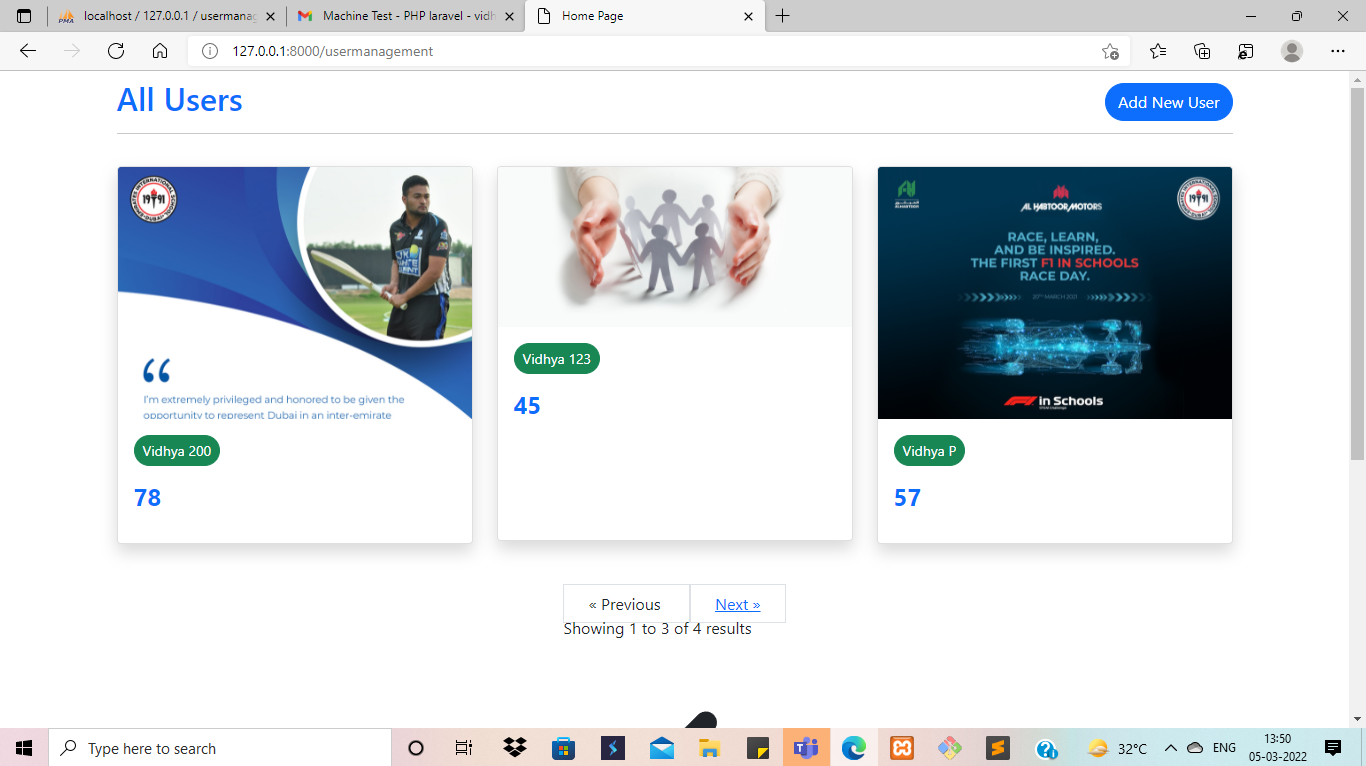
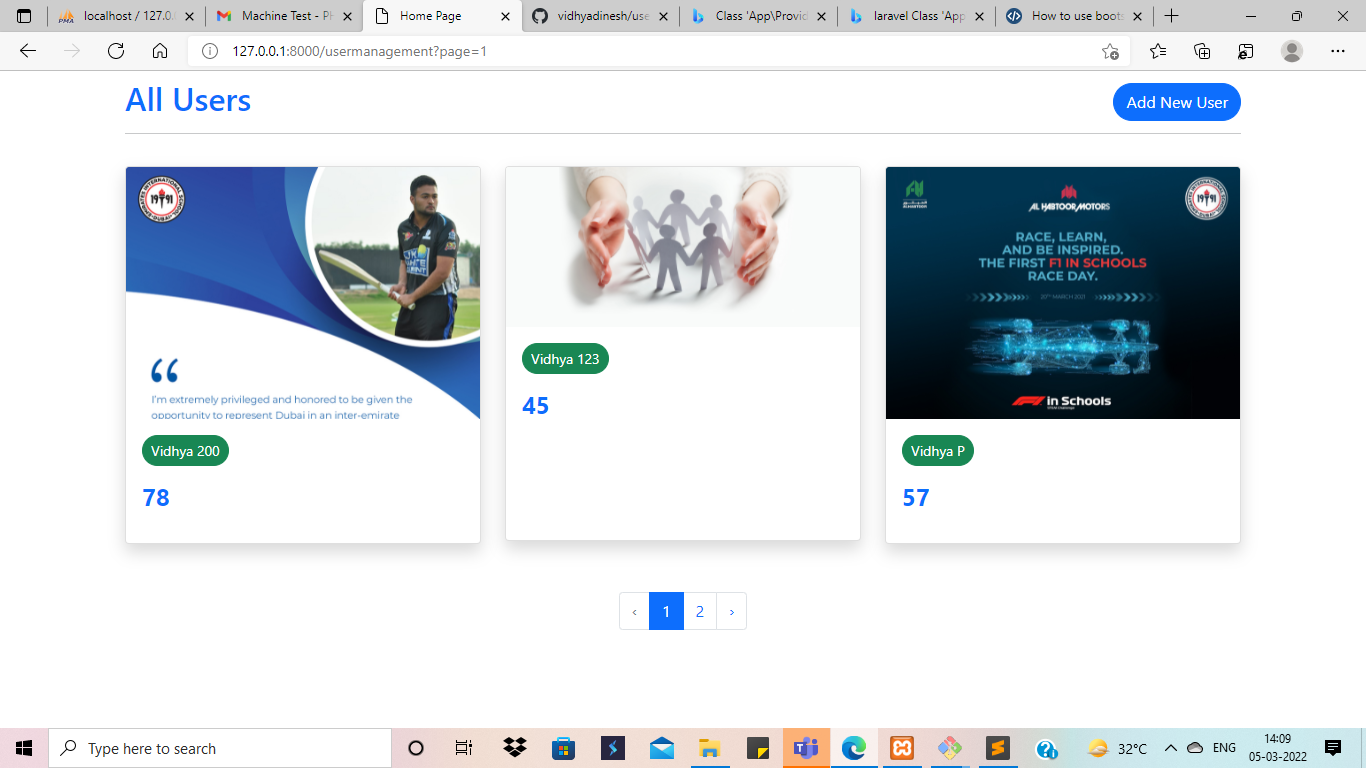
first commit

diff --git a/bootstrap/cache/services.php b/bootstrap/cache/services.php
@@ -1,0 +1,231 @@
+<?php return array (
+  'providers' => 
+  array (
+    0 => 'Illuminate\\Auth\\AuthServiceProvider',
+    1 => 'Illuminate\\Broadcasting\\BroadcastServiceProvider',
+    2 => 'Illuminate\\Bus\\BusServiceProvider',
+    3 => 'Illuminate\\Cache\\CacheServiceProvider',
+    4 => 'Illuminate\\Foundation\\Providers\\ConsoleSupportServiceProvider',
+    5 => 'Illuminate\\Cookie\\CookieServiceProvider',
+    6 => 'Illuminate\\Database\\DatabaseServiceProvider',
+    7 => 'Illuminate\\Encryption\\EncryptionServiceProvider',
+    8 => 'Illuminate\\Filesystem\\FilesystemServiceProvider',
+    9 => 'Illuminate\\Foundation\\Providers\\FoundationServiceProvider',
+    10 => 'Illuminate\\Hashing\\HashServiceProvider',
+    11 => 'Illuminate\\Mail\\MailServiceProvider',
+    12 => 'Illuminate\\Notifications\\NotificationServiceProvider',
+    13 => 'Illuminate\\Pagination\\PaginationServiceProvider',
+    14 => 'Illuminate\\Pipeline\\PipelineServiceProvider',
+    15 => 'Illuminate\\Queue\\QueueServiceProvider',
+    16 => 'Illuminate\\Redis\\RedisServiceProvider',
+    17 => 'Illuminate\\Auth\\Passwords\\PasswordResetServiceProvider',
+    18 => 'Illuminate\\Session\\SessionServiceProvider',
+    19 => 'Illuminate\\Translation\\TranslationServiceProvider',
+    20 => 'Illuminate\\Validation\\ValidationServiceProvider',
+    21 => 'Illuminate\\View\\ViewServiceProvider',
+    22 => 'Facade\\Ignition\\IgnitionServiceProvider',
+    23 => 'Fruitcake\\Cors\\CorsServiceProvider',
+    24 => 'Laravel\\Sail\\SailServiceProvider',
+    25 => 'Laravel\\Sanctum\\SanctumServiceProvider',
+    26 => 'Laravel\\Tinker\\TinkerServiceProvider',
+    27 => 'Carbon\\Laravel\\ServiceProvider',
+    28 => 'NunoMaduro\\Collision\\Adapters\\Laravel\\CollisionServiceProvider',
+    29 => 'App\\Providers\\AppServiceProvider',
+    30 => 'App\\Providers\\AuthServiceProvider',
+    31 => 'App\\Providers\\EventServiceProvider',
+    32 => 'App\\Providers\\RouteServiceProvider',
+  ),
+  'eager' => 
+  array (
+    0 => 'Illuminate\\Auth\\AuthServiceProvider',
+    1 => 'Illuminate\\Cookie\\CookieServiceProvider',
+    2 => 'Illuminate\\Database\\DatabaseServiceProvider',
+    3 => 'Illuminate\\Encryption\\EncryptionServiceProvider',
+    4 => 'Illuminate\\Filesystem\\FilesystemServiceProvider',
+    5 => 'Illuminate\\Foundation\\Providers\\FoundationServiceProvider',
+    6 => 'Illuminate\\Notifications\\NotificationServiceProvider',
+    7 => 'Illuminate\\Pagination\\PaginationServiceProvider',
+    8 => 'Illuminate\\Session\\SessionServiceProvider',
+    9 => 'Illuminate\\View\\ViewServiceProvider',
+    10 => 'Facade\\Ignition\\IgnitionServiceProvider',
+    11 => 'Fruitcake\\Cors\\CorsServiceProvider',
+    12 => 'Laravel\\Sanctum\\SanctumServiceProvider',
+    13 => 'Carbon\\Laravel\\ServiceProvider',
+    14 => 'NunoMaduro\\Collision\\Adapters\\Laravel\\CollisionServiceProvider',
+    15 => 'App\\Providers\\AppServiceProvider',
+    16 => 'App\\Providers\\AuthServiceProvider',
+    17 => 'App\\Providers\\EventServiceProvider',
+    18 => 'App\\Providers\\RouteServiceProvider',
+  ),
+  'deferred' => 
+  array (
+    'Illuminate\\Broadcasting\\BroadcastManager' => 'Illuminate\\Broadcasting\\BroadcastServiceProvider',
+    'Illuminate\\Contracts\\Broadcasting\\Factory' => 'Illuminate\\Broadcasting\\BroadcastServiceProvider',
+    'Illuminate\\Contracts\\Broadcasting\\Broadcaster' => 'Illuminate\\Broadcasting\\BroadcastServiceProvider',
+    'Illuminate\\Bus\\Dispatcher' => 'Illuminate\\Bus\\BusServiceProvider',
+    'Illuminate\\Contracts\\Bus\\Dispatcher' => 'Illuminate\\Bus\\BusServiceProvider',
+    'Illuminate\\Contracts\\Bus\\QueueingDispatcher' => 'Illuminate\\Bus\\BusServiceProvider',
+    'Illuminate\\Bus\\BatchRepository' => 'Illuminate\\Bus\\BusServiceProvider',
+    'cache' => 'Illuminate\\Cache\\CacheServiceProvider',
+    'cache.store' => 'Illuminate\\Cache\\CacheServiceProvider',
+    'cache.psr6' => 'Illuminate\\Cache\\CacheServiceProvider',
+    'memcached.connector' => 'Illuminate\\Cache\\CacheServiceProvider',
+    'Illuminate\\Cache\\RateLimiter' => 'Illuminate\\Cache\\CacheServiceProvider',
+    'command.cache.clear' => 'Illuminate\\Foundation\\Providers\\ConsoleSupportServiceProvider',
+    'command.cache.forget' => 'Illuminate\\Foundation\\Providers\\ConsoleSupportServiceProvider',
+    'command.clear-compiled' => 'Illuminate\\Foundation\\Providers\\ConsoleSupportServiceProvider',
+    'command.auth.resets.clear' => 'Illuminate\\Foundation\\Providers\\ConsoleSupportServiceProvider',
+    'command.config.cache' => 'Illuminate\\Foundation\\Providers\\ConsoleSupportServiceProvider',
+    'command.config.clear' => 'Illuminate\\Foundation\\Providers\\ConsoleSupportServiceProvider',
+    'Illuminate\\Database\\Console\\DbCommand' => 'Illuminate\\Foundation\\Providers\\ConsoleSupportServiceProvider',
+    'command.db.prune' => 'Illuminate\\Foundation\\Providers\\ConsoleSupportServiceProvider',
+    'command.db.wipe' => 'Illuminate\\Foundation\\Providers\\ConsoleSupportServiceProvider',
+    'command.down' => 'Illuminate\\Foundation\\Providers\\ConsoleSupportServiceProvider',
+    'command.environment' => 'Illuminate\\Foundation\\Providers\\ConsoleSupportServiceProvider',
+    'command.event.cache' => 'Illuminate\\Foundation\\Providers\\ConsoleSupportServiceProvider',
+    'command.event.clear' => 'Illuminate\\Foundation\\Providers\\ConsoleSupportServiceProvider',
+    'command.event.list' => 'Illuminate\\Foundation\\Providers\\ConsoleSupportServiceProvider',
+    'command.key.generate' => 'Illuminate\\Foundation\\Providers\\ConsoleSupportServiceProvider',
+    'command.optimize' => 'Illuminate\\Foundation\\Providers\\ConsoleSupportServiceProvider',
+    'command.optimize.clear' => 'Illuminate\\Foundation\\Providers\\ConsoleSupportServiceProvider',
+    'command.package.discover' => 'Illuminate\\Foundation\\Providers\\ConsoleSupportServiceProvider',
+    'command.queue.clear' => 'Illuminate\\Foundation\\Providers\\ConsoleSupportServiceProvider',
+    'command.queue.failed' => 'Illuminate\\Foundation\\Providers\\ConsoleSupportServiceProvider',
+    'command.queue.flush' => 'Illuminate\\Foundation\\Providers\\ConsoleSupportServiceProvider',
+    'command.queue.forget' => 'Illuminate\\Foundation\\Providers\\ConsoleSupportServiceProvider',
+    'command.queue.listen' => 'Illuminate\\Foundation\\Providers\\ConsoleSupportServiceProvider',
+    'command.queue.monitor' => 'Illuminate\\Foundation\\Providers\\ConsoleSupportServiceProvider',
+    'command.queue.prune-batches' => 'Illuminate\\Foundation\\Providers\\ConsoleSupportServiceProvider',
+    'command.queue.prune-failed-jobs' => 'Illuminate\\Foundation\\Providers\\ConsoleSupportServiceProvider',
+    'command.queue.restart' => 'Illuminate\\Foundation\\Providers\\ConsoleSupportServiceProvider',
+    'command.queue.retry' => 'Illuminate\\Foundation\\Providers\\ConsoleSupportServiceProvider',
+    'command.queue.retry-batch' => 'Illuminate\\Foundation\\Providers\\ConsoleSupportServiceProvider',
+    'command.queue.work' => 'Illuminate\\Foundation\\Providers\\ConsoleSupportServiceProvider',
+    'command.route.cache' => 'Illuminate\\Foundation\\Providers\\ConsoleSupportServiceProvider',
+    'command.route.clear' => 'Illuminate\\Foundation\\Providers\\ConsoleSupportServiceProvider',
+    'command.route.list' => 'Illuminate\\Foundation\\Providers\\ConsoleSupportServiceProvider',
+    'command.schema.dump' => 'Illuminate\\Foundation\\Providers\\ConsoleSupportServiceProvider',
+    'command.seed' => 'Illuminate\\Foundation\\Providers\\ConsoleSupportServiceProvider',
+    'Illuminate\\Console\\Scheduling\\ScheduleFinishCommand' => 'Illuminate\\Foundation\\Providers\\ConsoleSupportServiceProvider',
+    'Illuminate\\Console\\Scheduling\\ScheduleListCommand' => 'Illuminate\\Foundation\\Providers\\ConsoleSupportServiceProvider',
+    'Illuminate\\Console\\Scheduling\\ScheduleRunCommand' => 'Illuminate\\Foundation\\Providers\\ConsoleSupportServiceProvider',
+    'Illuminate\\Console\\Scheduling\\ScheduleClearCacheCommand' => 'Illuminate\\Foundation\\Providers\\ConsoleSupportServiceProvider',
+    'Illuminate\\Console\\Scheduling\\ScheduleTestCommand' => 'Illuminate\\Foundation\\Providers\\ConsoleSupportServiceProvider',
+    'Illuminate\\Console\\Scheduling\\ScheduleWorkCommand' => 'Illuminate\\Foundation\\Providers\\ConsoleSupportServiceProvider',
+    'command.storage.link' => 'Illuminate\\Foundation\\Providers\\ConsoleSupportServiceProvider',
+    'command.up' => 'Illuminate\\Foundation\\Providers\\ConsoleSupportServiceProvider',
+    'command.view.cache' => 'Illuminate\\Foundation\\Providers\\ConsoleSupportServiceProvider',
+    'command.view.clear' => 'Illuminate\\Foundation\\Providers\\ConsoleSupportServiceProvider',
+    'command.cache.table' => 'Illuminate\\Foundation\\Providers\\ConsoleSupportServiceProvider',
+    'command.cast.make' => 'Illuminate\\Foundation\\Providers\\ConsoleSupportServiceProvider',
+    'command.channel.make' => 'Illuminate\\Foundation\\Providers\\ConsoleSupportServiceProvider',
+    'command.component.make' => 'Illuminate\\Foundation\\Providers\\ConsoleSupportServiceProvider',
+    'command.console.make' => 'Illuminate\\Foundation\\Providers\\ConsoleSupportServiceProvider',
+    'command.controller.make' => 'Illuminate\\Foundation\\Providers\\ConsoleSupportServiceProvider',
+    'command.event.generate' => 'Illuminate\\Foundation\\Providers\\ConsoleSupportServiceProvider',
+    'command.event.make' => 'Illuminate\\Foundation\\Providers\\ConsoleSupportServiceProvider',
+    'command.exception.make' => 'Illuminate\\Foundation\\Providers\\ConsoleSupportServiceProvider',
+    'command.factory.make' => 'Illuminate\\Foundation\\Providers\\ConsoleSupportServiceProvider',
+    'command.job.make' => 'Illuminate\\Foundation\\Providers\\ConsoleSupportServiceProvider',
+    'command.listener.make' => 'Illuminate\\Foundation\\Providers\\ConsoleSupportServiceProvider',
+    'command.mail.make' => 'Illuminate\\Foundation\\Providers\\ConsoleSupportServiceProvider',
+    'command.middleware.make' => 'Illuminate\\Foundation\\Providers\\ConsoleSupportServiceProvider',
+    'command.model.make' => 'Illuminate\\Foundation\\Providers\\ConsoleSupportServiceProvider',
+    'command.notification.make' => 'Illuminate\\Foundation\\Providers\\ConsoleSupportServiceProvider',
+    'command.notification.table' => 'Illuminate\\Foundation\\Providers\\ConsoleSupportServiceProvider',
+    'command.observer.make' => 'Illuminate\\Foundation\\Providers\\ConsoleSupportServiceProvider',
+    'command.policy.make' => 'Illuminate\\Foundation\\Providers\\ConsoleSupportServiceProvider',
+    'command.provider.make' => 'Illuminate\\Foundation\\Providers\\ConsoleSupportServiceProvider',
+    'command.queue.failed-table' => 'Illuminate\\Foundation\\Providers\\ConsoleSupportServiceProvider',
+    'command.queue.table' => 'Illuminate\\Foundation\\Providers\\ConsoleSupportServiceProvider',
+    'command.queue.batches-table' => 'Illuminate\\Foundation\\Providers\\ConsoleSupportServiceProvider',
+    'command.request.make' => 'Illuminate\\Foundation\\Providers\\ConsoleSupportServiceProvider',
+    'command.resource.make' => 'Illuminate\\Foundation\\Providers\\ConsoleSupportServiceProvider',
+    'command.rule.make' => 'Illuminate\\Foundation\\Providers\\ConsoleSupportServiceProvider',
+    'command.seeder.make' => 'Illuminate\\Foundation\\Providers\\ConsoleSupportServiceProvider',
+    'command.session.table' => 'Illuminate\\Foundation\\Providers\\ConsoleSupportServiceProvider',
+    'command.serve' => 'Illuminate\\Foundation\\Providers\\ConsoleSupportServiceProvider',
+    'command.stub.publish' => 'Illuminate\\Foundation\\Providers\\ConsoleSupportServiceProvider',
+    'command.test.make' => 'Illuminate\\Foundation\\Providers\\ConsoleSupportServiceProvider',
+    'command.vendor.publish' => 'Illuminate\\Foundation\\Providers\\ConsoleSupportServiceProvider',
+    'migrator' => 'Illuminate\\Foundation\\Providers\\ConsoleSupportServiceProvider',
+    'migration.repository' => 'Illuminate\\Foundation\\Providers\\ConsoleSupportServiceProvider',
+    'migration.creator' => 'Illuminate\\Foundation\\Providers\\ConsoleSupportServiceProvider',
+    'command.migrate' => 'Illuminate\\Foundation\\Providers\\ConsoleSupportServiceProvider',
+    'command.migrate.fresh' => 'Illuminate\\Foundation\\Providers\\ConsoleSupportServiceProvider',
+    'command.migrate.install' => 'Illuminate\\Foundation\\Providers\\ConsoleSupportServiceProvider',
+    'command.migrate.refresh' => 'Illuminate\\Foundation\\Providers\\ConsoleSupportServiceProvider',
+    'command.migrate.reset' => 'Illuminate\\Foundation\\Providers\\ConsoleSupportServiceProvider',
+    'command.migrate.rollback' => 'Illuminate\\Foundation\\Providers\\ConsoleSupportServiceProvider',
+    'command.migrate.status' => 'Illuminate\\Foundation\\Providers\\ConsoleSupportServiceProvider',
+    'command.migrate.make' => 'Illuminate\\Foundation\\Providers\\ConsoleSupportServiceProvider',
+    'composer' => 'Illuminate\\Foundation\\Providers\\ConsoleSupportServiceProvider',
+    'hash' => 'Illuminate\\Hashing\\HashServiceProvider',
+    'hash.driver' => 'Illuminate\\Hashing\\HashServiceProvider',
+    'mail.manager' => 'Illuminate\\Mail\\MailServiceProvider',
+    'mailer' => 'Illuminate\\Mail\\MailServiceProvider',
+    'Illuminate\\Mail\\Markdown' => 'Illuminate\\Mail\\MailServiceProvider',
+    'Illuminate\\Contracts\\Pipeline\\Hub' => 'Illuminate\\Pipeline\\PipelineServiceProvider',
+    'queue' => 'Illuminate\\Queue\\QueueServiceProvider',
+    'queue.connection' => 'Illuminate\\Queue\\QueueServiceProvider',
+    'queue.failer' => 'Illuminate\\Queue\\QueueServiceProvider',
+    'queue.listener' => 'Illuminate\\Queue\\QueueServiceProvider',
+    'queue.worker' => 'Illuminate\\Queue\\QueueServiceProvider',
+    'redis' => 'Illuminate\\Redis\\RedisServiceProvider',
+    'redis.connection' => 'Illuminate\\Redis\\RedisServiceProvider',
+    'auth.password' => 'Illuminate\\Auth\\Passwords\\PasswordResetServiceProvider',
+    'auth.password.broker' => 'Illuminate\\Auth\\Passwords\\PasswordResetServiceProvider',
+    'translator' => 'Illuminate\\Translation\\TranslationServiceProvider',
+    'translation.loader' => 'Illuminate\\Translation\\TranslationServiceProvider',
+    'validator' => 'Illuminate\\Validation\\ValidationServiceProvider',
+    'validation.presence' => 'Illuminate\\Validation\\ValidationServiceProvider',
+    'Laravel\\Sail\\Console\\InstallCommand' => 'Laravel\\Sail\\SailServiceProvider',
+    'Laravel\\Sail\\Console\\PublishCommand' => 'Laravel\\Sail\\SailServiceProvider',
+    'command.tinker' => 'Laravel\\Tinker\\TinkerServiceProvider',
+  ),
+  'when' => 
+  array (
+    'Illuminate\\Broadcasting\\BroadcastServiceProvider' => 
+    array (
+    ),
+    'Illuminate\\Bus\\BusServiceProvider' => 
+    array (
+    ),
+    'Illuminate\\Cache\\CacheServiceProvider' => 
+    array (
+    ),
+    'Illuminate\\Foundation\\Providers\\ConsoleSupportServiceProvider' => 
+    array (
+    ),
+    'Illuminate\\Hashing\\HashServiceProvider' => 
+    array (
+    ),
+    'Illuminate\\Mail\\MailServiceProvider' => 
+    array (
+    ),
+    'Illuminate\\Pipeline\\PipelineServiceProvider' => 
+    array (
+    ),
+    'Illuminate\\Queue\\QueueServiceProvider' => 
+    array (
+    ),
+    'Illuminate\\Redis\\RedisServiceProvider' => 
+    array (
+    ),
+    'Illuminate\\Auth\\Passwords\\PasswordResetServiceProvider' => 
+    array (
+    ),
+    'Illuminate\\Translation\\TranslationServiceProvider' => 
+    array (
+    ),
+    'Illuminate\\Validation\\ValidationServiceProvider' => 
+    array (
+    ),
+    'Laravel\\Sail\\SailServiceProvider' => 
+    array (
+    ),
+    'Laravel\\Tinker\\TinkerServiceProvider' => 
+    array (
+    ),
+  ),
+);

diff --git a/bootstrap/cache/packages.php b/bootstrap/cache/packages.php
@@ -1,0 +1,55 @@
+<?php return array (
+  'facade/ignition' => 
+  array (
+    'providers' => 
+    array (
+      0 => 'Facade\\Ignition\\IgnitionServiceProvider',
+    ),
+    'aliases' => 
+    array (
+      'Flare' => 'Facade\\Ignition\\Facades\\Flare',
+    ),
+  ),
+  'fruitcake/laravel-cors' => 
+  array (
+    'providers' => 
+    array (
+      0 => 'Fruitcake\\Cors\\CorsServiceProvider',
+    ),
+  ),
+  'laravel/sail' => 
+  array (
+    'providers' => 
+    array (
+      0 => 'Laravel\\Sail\\SailServiceProvider',
+    ),
+  ),
+  'laravel/sanctum' => 
+  array (
+    'providers' => 
+    array (
+      0 => 'Laravel\\Sanctum\\SanctumServiceProvider',
+    ),
+  ),
+  'laravel/tinker' => 
+  array (
+    'providers' => 
+    array (
+      0 => 'Laravel\\Tinker\\TinkerServiceProvider',
+    ),
+  ),
+  'nesbot/carbon' => 
+  array (
+    'providers' => 
+    array (
+      0 => 'Carbon\\Laravel\\ServiceProvider',
+    ),
+  ),
+  'nunomaduro/collision' => 
+  array (
+    'providers' => 
+    array (
+      0 => 'NunoMaduro\\Collision\\Adapters\\Laravel\\CollisionServiceProvider',
+    ),
+  ),
+);

diff --git a/app/Providers/AppServiceProvider.php b/app/Providers/AppServiceProvider.php
@@ -3,6 +3,7 @@
 namespace App\Providers;
 
 use Illuminate\Support\ServiceProvider;
+use Illuminate\Pagination\Paginator;
 
 class AppServiceProvider extends ServiceProvider
 {
@@ -23,6 +24,6 @@ class AppServiceProvider extends ServiceProvider
      */
     public function boot()
     {
-        //Paginator::useBootstrap();
+        Paginator::useBootstrap();
     }
 }
